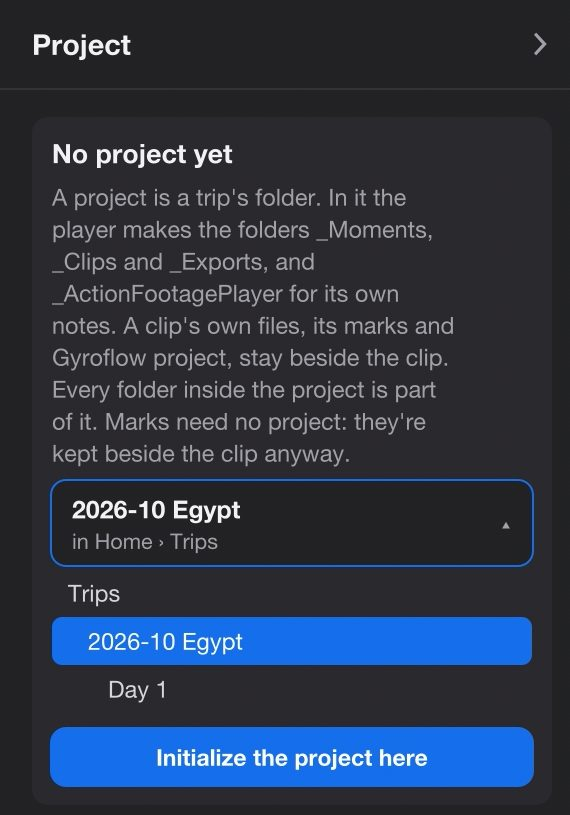
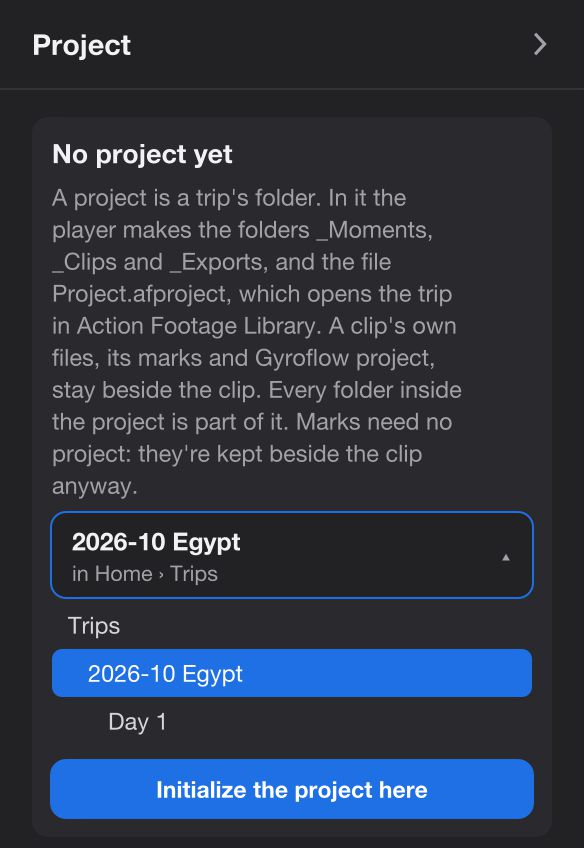
Panel screenshots retaken from 0.9 (Source, Transform, Output, the new rail), headless; image sizes matched in the translations

diff --git a/website/site/organizing.html b/website/site/organizing.html
@@ -190,9 +190,8 @@
         <p class="honest">Pick the trip's folder, above the day folders, so the whole trip is one project. Marks need no project at all.</p>
         <p class="note">The side panel shows and hides with <kbd>Tab</kbd>.</p>
       </div>
-      <!-- RETAKE after #136: the Project tab with no project, with the new tab rail (Project, Source, Transform, Output, Save frame…); the No project yet text naming Project.afproject; the folder list open on Trips, 2026-10 Egypt and Day 1, 2026-10 Egypt selected; Initialize the project here -->
       <figure class="media" id="shot-library-1">
-        <img src="media/library-1.jpg" alt="The side panel's Project tab with no project: No project yet, saying the project gets the folders _Moments, _Clips and _Exports and the file Project.afproject; the folder list open on Trips, 2026-10 Egypt and Day 1, 2026-10 Egypt selected, and Initialize the project here." width="570" height="815" loading="lazy">
+        <img src="media/library-1.jpg" alt="The side panel's Project tab with no project: No project yet, saying the project gets the folders _Moments, _Clips and _Exports and the file Project.afproject; the folder list open on Trips, 2026-10 Egypt and Day 1, 2026-10 Egypt selected, and Initialize the project here." width="584" height="848" loading="lazy">
         <figcaption>No project yet: pick the trip's folder, then Initialize the project here.</figcaption>
       </figure>
     </div>
@@ -248,7 +247,6 @@
         </div>
       </div>
       <div class="stack">
-        <!-- RETAKE after #136: the moment's name prompt over a paused wreck frame, with the side panel beside it showing the new tab rail (Project, Source, Transform, Output, Save frame…) -->
         <figure class="media" id="shot-library-3">
           <img src="media/library-3.jpg" alt="A paused wreck frame with the prompt Moment 0:24–0:34 name (Enter: Turtle 2) at the bottom, the side panel beside it." width="1600" height="900" loading="lazy">
           <figcaption>Enter alone keeps the suggested name.</figcaption>
@@ -258,9 +256,8 @@
           <p>A moment is made whole, from what plays when you press <kbd>k</kbd>: its stabilization, level, horizon, lens, color aberration correction and frame. If the clip has a Gyroflow project, the moment gets its own copy, trimmed to the part. A moment never changes by itself: changing the clip, or the clip's project, later doesn't reach it. How the clip is read (its log curve, its turn, the lens under water) stays the clip's, for all its moments.</p>
           <p>While a moment plays, the side panel's <strong>Transform</strong> tab says <strong>Transform defined in</strong> the moment. Change anything, and it's for viewing only, unless <strong>Auto save</strong> is on: "Changed for viewing. The dot marks what's saved". <strong>Save to the moment</strong> writes it, <strong>Revert to saved</strong> goes back. Switch <strong>Settings of its own</strong> off, and the moment plays as its clip is saved to play; its own settings and its Gyroflow copy go, the copy to the <span class="os-mac">Trash</span><span class="os-win">Recycle Bin</span>.</p>
         </div>
-        <!-- RETAKE after #136: the Transform tab while the moment Turtle plays after a change: Transform defined in the moment, Settings of its own on, "Changed for viewing. The dot marks what's saved", Save to the moment and Revert to saved -->
         <figure class="media" id="shot-library-4">
-          <img src="media/library-4.jpg" alt="The side panel's Transform tab while the moment Turtle plays after a change: Transform defined in the moment, Settings of its own on, Changed for viewing, Save to the moment and Revert to saved." width="584" height="1120" loading="lazy">
+          <img src="media/library-4.jpg" alt="The side panel's Transform tab while the moment Turtle plays after a change: Transform defined in the moment, Settings of its own on, Changed for viewing. The dot marks what's saved, Save to the moment and Revert to saved; the level changed to Strong, the dot on Medium." width="584" height="918" loading="lazy">
           <figcaption>Viewing is never saving: changes are for viewing until you press Save to the moment.</figcaption>
         </figure>
       </div>
@@ -524,9 +521,8 @@ Z:\2026-10 Egypt</pre>
           </table>
         </div>
       </div>
-      <!-- RETAKE after #136: the Project tab of 2026-10 Egypt with the new tab rail: 3 moments · 12 of 40 clip previews, Open in Action Footage Library with its caption (no Make clip previews, no Ignore subfolders), Show all clips / moments in Finder, the clip's marks and moments with one menu open, and Save as moment 0:28–0:32 -->
       <figure class="media lib-tall" id="shot-library-6">
-        <img src="media/library-6.jpg" alt="The side panel's Project tab: 2026-10 Egypt, 3 moments and 12 of 40 clip previews, Open in Action Footage Library with its caption, the clip's marks and moments with one menu open, and Save as moment 0:28–0:32." width="584" height="1560" loading="lazy">
+        <img src="media/library-6.jpg" alt="The side panel's Project tab: 2026-10 Egypt, 3 moments and 3 of 7 clip previews, Open in Action Footage Library with its caption, Show all clips in Finder and Show all moments in Finder, the clip's marks and moments with Turtle's menu open, and Save as moment 0:28–0:32." width="584" height="1594" loading="lazy">
         <figcaption>The Project tab of a trip with a few moments.</figcaption>
       </figure>
     </div>

diff --git a/website/site/stabilization.html b/website/site/stabilization.html
@@ -216,14 +216,12 @@
         <p>The video file itself is never written to: the project is always the <code>.gyroflow</code> file beside it.</p>
       </div>
       <div class="stack">
-        <!-- RETAKE after #136: Transform tab on a clip with a Gyroflow project: Stabilization On with "For viewing only, never saved…", Lens "As in the project", the card In the Gyroflow project (Smoothing its own, Horizon, Frame, Projection) and Edit in Gyroflow… -->
         <figure class="media" id="shot-stabilization-4">
-          <img src="media/stabilization-4.jpg" alt="The side panel's Transform tab on a clip with a Gyroflow project: Stabilization On, Lens As in the project, and the card In the Gyroflow project with its smoothing, horizon, frame and projection, and Edit in Gyroflow." width="584" height="1222" loading="lazy">
+          <img src="media/stabilization-4.jpg" alt="The side panel's Transform tab on a clip with a Gyroflow project: Stabilization On, Lens As in the project, and the card In the Gyroflow project with its smoothing, horizon, frame and projection, and Edit in Gyroflow." width="584" height="1450" loading="lazy">
           <figcaption>A clip with its own project: the smoothing, horizon, frame and projection are the project's, listed in the Transform tab.</figcaption>
         </figure>
-        <!-- RETAKE after #136: Transform tab on a clip without motion data: Stabilization greyed at Off, "No motion data in this clip: Gyroflow can find it in the picture (optical flow)" and the button Stabilize in Gyroflow… -->
         <figure class="media" id="shot-stabilization-5">
-          <img src="media/stabilization-5.jpg" alt="The side panel's Transform tab on a clip without motion data: Stabilization greyed at Off, No motion data in this clip: Gyroflow can find it in the picture (optical flow), and the button Stabilize in Gyroflow." width="584" height="356" loading="lazy">
+          <img src="media/stabilization-5.jpg" alt="The side panel's Transform tab on a clip without motion data: Stabilization greyed at Off, No motion data in this clip: Gyroflow can find it in the picture (optical flow), and the button Stabilize in Gyroflow." width="584" height="779" loading="lazy">
           <figcaption>No gyro data? One button opens the video in Gyroflow, to stabilize it from the picture.</figcaption>
         </figure>
       </div>
@@ -269,9 +267,8 @@
             <dd>Under water, the flat glass in front of the lens splits colors apart towards the frame's edges. This puts them back, wherever the lens is under water. On Osmo Action 6 dive clips, red's fringe at the edge goes from 3-7 px to about 1 px. It's part of the transform, saved with the rest. Playback only: exports keep the fringes. Greyed when Source › <b>Under water, flat port</b> is No.</dd>
           </div>
         </dl>
-        <!-- RETAKE after #136: Transform tab on a dive clip with the defaults: Transform defined in "this session" with Save, Revert to saved, Use as default, Auto save; Stabilization On, Level Medium, Horizon Free, Lens Corrected + Linear, Frame Own + As is, Water: Reduce color aberration on -->
         <figure class="media" id="shot-stabilization-2">
-          <img src="media/stabilization-2.jpg" alt="The side panel's Transform tab on a dive clip: Transform defined in this session, Stabilization On, Level Medium, Horizon Free, Lens Corrected and Linear, Frame Own and As is, Reduce color aberration on." width="584" height="1222" loading="lazy">
+          <img src="media/stabilization-2.jpg" alt="The side panel's Transform tab on a dive clip: Transform defined in this session, Stabilization On, Level Medium, Horizon Free, Lens Corrected and Linear, Frame Own and As is, Reduce color aberration on." width="584" height="2019" loading="lazy">
           <figcaption>A dive clip with the default settings, steadied from its gyro data.</figcaption>
         </figure>
       </div>
@@ -404,9 +401,8 @@
           <p>If more than a tenth of the frames are dropped for over 2 seconds, playback pauses and asks: “Stabilization can't keep up, frames are dropped. Play lighter:”. It offers what helps on that clip: 30 or 15 fps, a lighter edge fill, no edge fill, rendering at 1080p, skipping the color aberration correction on this screen, or playing on as it is, and “Don't ask again”. What you pick is kept.</p>
           <p>On an M1 Pro MacBook Pro, the stabilization keeps up with 4K at 60 fps with room to spare. On a thin 15 W Windows laptop, 4K at 60 fps with the trail kept up at 15 fps, not at 30.</p>
         </div>
-        <!-- RETAKE after #136: the slow-playback prompt, whose choice now reads "Skip the color aberration correction on this screen" (was "Color fringes under water left as recorded") -->
         <figure class="media" id="shot-stabilization-6">
-          <img src="media/stabilization-6.jpg" alt="A paused wreck frame with the list Stabilization can't keep up, frames are dropped. Play lighter, and its choices." width="1600" height="900" loading="lazy">
+          <img src="media/stabilization-6.jpg" alt="A paused wreck frame with the list Stabilization can't keep up, frames are dropped. Play lighter, and its choices, among them Skip the color aberration correction on this screen." width="1600" height="900" loading="lazy">
           <figcaption>The prompt when the computer can't keep up.</figcaption>
         </figure>
       </div>

diff --git a/website/site/log.html b/website/site/log.html
@@ -294,7 +294,6 @@
             <p>The Dolby Vision looks and exports need the Mac app's own mpv. On Windows and Linux, and with the plugins in your own mpv on a Mac, there are no +DV looks and no Dolby Vision exports.</p>
           </div>
         </div>
-        <!-- RETAKE after #136: Dolby Vision tab with the author's trims, as before; only the rail changed (Project, Source, Transform, Output, Save frame, …) -->
         <figure class="media lg-panel" id="shot-log-2">
           <img src="media/log-2.jpg" alt="The side panel's Dolby Vision tab: seven trim sliders from Slope to Chroma weight, with the buttons These are the author's trims and Neutral trims: none added." width="584" height="1716" loading="lazy">
           <figcaption>The Dolby Vision tab of the side panel, with the author's trims.</figcaption>
@@ -326,9 +325,8 @@
             <p>Progress shows at the top right. Paused, the export runs at full speed, about 35 frames a second for 4K at 60 fps on an M1 Pro Mac. While the video plays, it nearly stops, so playback stays smooth. <span class="os-mac">A notification says where the file went.</span><span class="os-win">A message over the video says where the file went.</span></p>
           </li>
         </ol>
-        <!-- RETAKE after #136: Output tab, Export part, with a part 1:05–1:30 marked: Mark start / Mark end with times, Clear the part, Export the part, Export in SDR, Show the last export, the caption A still or a Live Photo: Save frame; In the folder dock below -->
         <figure class="media lg-panel" id="shot-log-3">
-          <img src="media/log-3.jpg" alt="The Export part of the side panel's Output tab with the part 1:05–1:30 marked: Mark start, Mark end, Clear the part, Export the part, Export in SDR and Show the last export." width="584" height="1010" loading="lazy">
+          <img src="media/log-3.jpg" alt="The Export part of the side panel's Output tab with the part 1:05–1:30 marked: Start 1:05, End 1:30, Clear the part, Export the part 1:05–1:30, Export in SDR, Show the last export and the line A still or a Live Photo: Save frame; In the folder below." width="584" height="762" loading="lazy">
           <figcaption>Output › Export in the side panel, with a part marked.</figcaption>
         </figure>
       </div>
@@ -441,14 +439,12 @@
           </div>
         </dl>
         <div class="lg-shots">
-          <!-- RETAKE after #136: Output tab on an SDR screen, D-Log M clip: From Log, D-Log M, all seven looks with HDR, HLG+DV selected, its note, Dolby Vision trims…, the line D-Log M, from the clip … with Change in Source -->
           <figure class="media lg-panel" id="shot-log-4">
-            <img src="media/log-4.jpg" alt="The side panel's Output tab on an SDR screen: From Log, D-Log M, seven looks with HDR, HLG+DV selected, its note, the Dolby Vision trims button, the log curve line with Change in Source, and Export." width="584" height="1518" loading="lazy">
+            <img src="media/log-4.jpg" alt="The side panel's Output tab on an SDR screen: From Log, D-Log M, seven looks with HDR, HLG+DV selected, its note, the Dolby Vision trims button, and the log curve line D-Log M, from the clip, with Change in Source." width="584" height="1145" loading="lazy">
             <figcaption>On an ordinary screen: all seven looks of a D-Log M clip.</figcaption>
           </figure>
-          <!-- RETAKE after #136: Output tab on an HDR screen, GP-Log clip: From Log, GP-Log, HDR, HLG selected, no maker's LUT look and the line No maker's LUT for GP-Log yet -->
           <figure class="media lg-panel" id="shot-log-5">
-            <img src="media/log-5.jpg" alt="The side panel's Output tab on an HDR screen with the GP-Log curve: From Log, GP-Log, HDR, HLG selected, no camera maker's LUT, and the line No maker's LUT for GP-Log yet." width="584" height="1302" loading="lazy">
+            <img src="media/log-5.jpg" alt="The side panel's Output tab on an HDR screen with the GP-Log curve: From Log, GP-Log, HDR, HLG selected, no camera maker's LUT, the line No maker's LUT for GP-Log yet, and the log curve line with Change in Source." width="584" height="897" loading="lazy">
             <figcaption>On an HDR screen, with the GP-Log curve: no maker's look.</figcaption>
           </figure>
         </div>

diff --git a/website/site/photos.html b/website/site/photos.html
@@ -121,9 +121,8 @@
         </div>
       </div>
 
-      <!-- RETAKE after #136: the same reef frame in Save frame (4:5, thirds lines, label line), with the side panel on Save frame, its rail showing the new icons in order: Project, Source, Transform, Output, Save frame (fifth), Performance & Quality, Telemetry, Dolby Vision -->
       <figure class="media" id="shot-photos-1">
-        <img src="media/photos-1.jpg" alt="The player paused on a reef with a pufferfish in Save frame mode: a 4:5 frame with thirds lines, the surround dimmed, the label line above it, the side panel on Save frame, the fifth icon of its rail after Project, Source, Transform and Output." width="1600" height="900" loading="lazy">
+        <img src="media/photos-1.jpg" alt="The player paused on a reef in Save frame mode: a 4:5 frame with thirds lines, the surround dimmed, the label line above it, the side panel on Save frame, the fifth icon of its rail after Project, Source, Transform and Output." width="1600" height="900" loading="lazy">
         <figcaption>Save frame (<kbd>c</kbd>): the photo's frame over the paused video, with the side panel's Save frame part beside it.</figcaption>
       </figure>
     </div>
@@ -404,14 +403,12 @@
           <p class="note">In the settings file <code>gyroflow.conf</code>: <code>live_photo</code> is <code>yes</code> (Live Photo on a Mac, Motion Photo elsewhere), <code>live</code>, <code>motion</code> or <code>no</code> (stills). <code>still_radius</code>, <code>still_delay</code> and <code>still_grain</code> tune the clean frame on screen only: a saved photo always uses 5 frames on each side.</p>
         </div>
         <div class="stack">
-          <!-- RETAKE after #136: the side panel's Save frame part on a Mac (Frame the photo on, aspect 4:5, Zoom 120 %, Horizon 3.5°, Photo: Live Photo, Save the frame as a photo), with the rail's Save frame icon fifth, after Project, Source, Transform and Output -->
           <figure class="media" id="shot-photos-4">
-            <img src="media/photos-4.jpg" alt="The side panel's Save frame part, the fifth icon of its rail: Frame the photo on, aspect 4:5, Zoom 120 %, Horizon 3.5°, Photo set to Live Photo, and Save the frame as a photo." width="584" height="1600" loading="lazy">
+            <img src="media/photos-4.jpg" alt="The side panel's Save frame part, the fifth icon of its rail: Frame the photo on, aspect 4:5, Zoom 120 %, Horizon 3.5°, Photo set to Live Photo, and Save the frame as a photo." width="584" height="1594" loading="lazy">
             <figcaption>The Save frame part, on a Mac.</figcaption>
           </figure>
-          <!-- RETAKE after #136: Performance & Quality's Paused frame (As it played / Full size) and the Temporal denoise switch on, with their captions; these settings are unchanged, so retake only to match the new panel's look -->
           <figure class="media" id="shot-photos-5">
-            <img src="media/photos-5.jpg" alt="Performance &amp; Quality in the side panel: Paused frame, As it played or Full size, and the Temporal denoise switch on, with their captions." width="570" height="405" loading="lazy">
+            <img src="media/photos-5.jpg" alt="Performance &amp; Quality in the side panel: Paused frame, As it played or Full size, and the Temporal denoise switch on, with their captions." width="570" height="400" loading="lazy">
             <figcaption>Paused frame and Temporal denoise, in Performance &amp; Quality.</figcaption>
           </figure>
         </div>

diff --git a/website/site/ru/organizing.html b/website/site/ru/organizing.html
@@ -193,7 +193,7 @@
         <p class="note">Боковая панель показывается и скрывается клавишей <kbd>Tab</kbd>.</p>
       </div>
       <figure class="media" id="shot-library-1">
-        <img src="../media/library-1.jpg" alt="Вкладка Project боковой панели без проекта: список папок открыт на Trips, 2026-10 Egypt и Day 1, выбрана 2026-10 Egypt, и кнопка Initialize the project here." width="570" height="815" loading="lazy">
+        <img src="../media/library-1.jpg" alt="Вкладка Project боковой панели без проекта: список папок открыт на Trips, 2026-10 Egypt и Day 1, выбрана 2026-10 Egypt, и кнопка Initialize the project here." width="584" height="848" loading="lazy">
         <figcaption>Проекта пока нет: выберите папку поездки, затем Initialize the project here.</figcaption>
       </figure>
     </div>
@@ -258,7 +258,7 @@
           <p>Пока момент играет, боковая панель показывает <strong>Stabilized: As saved / On its own / With its clip</strong> (как сохранён / сам по себе / вместе с клипом). Всё, что вы меняете, — только для просмотра: панель пишет «Changed for viewing only: the moment is as it was saved» (изменено только для просмотра, момент остался как сохранён). <strong>Keep in Turtle</strong> записывает это в момент.</p>
         </div>
         <figure class="media" id="shot-library-4">
-          <img src="../media/library-4.jpg" alt="Боковая панель, пока после изменения играет момент Turtle: Open the whole clip at 0:24, Stabilized As saved, Changed for viewing only и Keep in Turtle." width="584" height="1120" loading="lazy">
+          <img src="../media/library-4.jpg" alt="Боковая панель, пока после изменения играет момент Turtle: Open the whole clip at 0:24, Stabilized As saved, Changed for viewing only и Keep in Turtle." width="584" height="918" loading="lazy">
           <figcaption>Просмотр — это не сохранение: Keep in Turtle — единственная кнопка, которая записывает.</figcaption>
         </figure>
       </div>
@@ -491,7 +491,7 @@ Z:\2026-10 Egypt</pre>
         </div>
       </div>
       <figure class="media lib-tall" id="shot-library-6">
-        <img src="../media/library-6.jpg" alt="Вкладка Project боковой панели: 2026-10 Egypt, 3 moments и 12 of 40 clip previews, метки и моменты клипа с одним открытым меню и Save as moment 0:28–0:32." width="584" height="1560" loading="lazy">
+        <img src="../media/library-6.jpg" alt="Вкладка Project боковой панели: 2026-10 Egypt, 3 moments и 12 of 40 clip previews, метки и моменты клипа с одним открытым меню и Save as moment 0:28–0:32." width="584" height="1594" loading="lazy">
         <figcaption>Вкладка Project у поездки с несколькими моментами.</figcaption>
       </figure>
     </div>

diff --git a/website/site/fr/organizing.html b/website/site/fr/organizing.html
@@ -193,7 +193,7 @@
         <p class="note">Le panneau latéral s’affiche et se masque avec <kbd>Tab</kbd>.</p>
       </div>
       <figure class="media" id="shot-library-1">
-        <img src="../media/library-1.jpg" alt="L’onglet Project du panneau latéral sans projet : la liste des dossiers ouverte sur Trips, 2026-10 Egypt et Day 1, 2026-10 Egypt sélectionné, et Initialize the project here." width="570" height="815" loading="lazy">
+        <img src="../media/library-1.jpg" alt="L’onglet Project du panneau latéral sans projet : la liste des dossiers ouverte sur Trips, 2026-10 Egypt et Day 1, 2026-10 Egypt sélectionné, et Initialize the project here." width="584" height="848" loading="lazy">
         <figcaption>No project yet : choisissez le dossier du voyage, puis Initialize the project here.</figcaption>
       </figure>
     </div>
@@ -258,7 +258,7 @@
           <p>Pendant la lecture d’un moment, le panneau latéral affiche <strong>Stabilized: As saved / On its own / With its clip</strong>. Changez quoi que ce soit, et ce n’est que pour regarder : le panneau indique « Changed for viewing only: the moment is as it was saved » (changé seulement pour regarder : le moment reste tel qu’enregistré). <strong>Keep in Turtle</strong> l’écrit dans le moment.</p>
         </div>
         <figure class="media" id="shot-library-4">
-          <img src="../media/library-4.jpg" alt="Le panneau latéral pendant la lecture du moment Turtle après un changement : Open the whole clip at 0:24, Stabilized As saved, Changed for viewing only, et Keep in Turtle." width="584" height="1120" loading="lazy">
+          <img src="../media/library-4.jpg" alt="Le panneau latéral pendant la lecture du moment Turtle après un changement : Open the whole clip at 0:24, Stabilized As saved, Changed for viewing only, et Keep in Turtle." width="584" height="918" loading="lazy">
           <figcaption>Regarder n’est jamais enregistrer : Keep in Turtle est le seul bouton qui écrit.</figcaption>
         </figure>
       </div>
@@ -491,7 +491,7 @@ Z:\2026-10 Egypt</pre>
         </div>
       </div>
       <figure class="media lib-tall" id="shot-library-6">
-        <img src="../media/library-6.jpg" alt="L’onglet Project du panneau latéral : 2026-10 Egypt, 3 moments et 12 of 40 clip previews, les repères et les moments du clip avec un menu ouvert, et Save as moment 0:28–0:32." width="584" height="1560" loading="lazy">
+        <img src="../media/library-6.jpg" alt="L’onglet Project du panneau latéral : 2026-10 Egypt, 3 moments et 12 of 40 clip previews, les repères et les moments du clip avec un menu ouvert, et Save as moment 0:28–0:32." width="584" height="1594" loading="lazy">
         <figcaption>L’onglet Project d’un voyage avec quelques moments.</figcaption>
       </figure>
     </div>

diff --git a/website/site/zh/organizing.html b/website/site/zh/organizing.html
@@ -193,7 +193,7 @@
         <p class="note">侧边面板用 <kbd>Tab</kbd> 显示和隐藏。</p>
       </div>
       <figure class="media" id="shot-library-1">
-        <img src="../media/library-1.jpg" alt="没有项目时侧边面板的 Project 标签页：文件夹列表展开，显示 Trips、2026-10 Egypt 和 Day 1，已选中 2026-10 Egypt，以及 Initialize the project here。" width="570" height="815" loading="lazy">
+        <img src="../media/library-1.jpg" alt="没有项目时侧边面板的 Project 标签页：文件夹列表展开，显示 Trips、2026-10 Egypt 和 Day 1，已选中 2026-10 Egypt，以及 Initialize the project here。" width="584" height="848" loading="lazy">
         <figcaption>No project yet：选择旅行文件夹，然后按 Initialize the project here。</figcaption>
       </figure>
     </div>
@@ -258,7 +258,7 @@
           <p>精彩瞬间播放时，侧边面板显示 <strong>Stabilized: As saved / On its own / With its clip</strong>。改动任何设置都只用于观看：面板会显示 “Changed for viewing only: the moment is as it was saved”（仅为观看而改动：精彩瞬间保持保存时的样子）。<strong>Keep in Turtle</strong> 才会把它写入精彩瞬间。</p>
         </div>
         <figure class="media" id="shot-library-4">
-          <img src="../media/library-4.jpg" alt="精彩瞬间 Turtle 在改动后播放时的侧边面板：Open the whole clip at 0:24，Stabilized As saved，Changed for viewing only，以及 Keep in Turtle。" width="584" height="1120" loading="lazy">
+          <img src="../media/library-4.jpg" alt="精彩瞬间 Turtle 在改动后播放时的侧边面板：Open the whole clip at 0:24，Stabilized As saved，Changed for viewing only，以及 Keep in Turtle。" width="584" height="918" loading="lazy">
           <figcaption>观看从不等于保存：Keep in Turtle 是唯一会写入的按钮。</figcaption>
         </figure>
       </div>
@@ -491,7 +491,7 @@ Z:\2026-10 Egypt</pre>
         </div>
       </div>
       <figure class="media lib-tall" id="shot-library-6">
-        <img src="../media/library-6.jpg" alt="侧边面板的 Project 标签页：2026-10 Egypt，3 moments 和 12 of 40 clip previews，片段的标记和精彩瞬间（其中一个菜单已展开），以及 Save as moment 0:28–0:32。" width="584" height="1560" loading="lazy">
+        <img src="../media/library-6.jpg" alt="侧边面板的 Project 标签页：2026-10 Egypt，3 moments 和 12 of 40 clip previews，片段的标记和精彩瞬间（其中一个菜单已展开），以及 Save as moment 0:28–0:32。" width="584" height="1594" loading="lazy">
         <figcaption>一次有几个精彩瞬间的旅行的 Project 标签页。</figcaption>
       </figure>
     </div>

diff --git a/website/site/ru/stabilization.html b/website/site/ru/stabilization.html
@@ -220,11 +220,11 @@
       </div>
       <div class="stack">
         <figure class="media" id="shot-stabilization-4">
-          <img src="../media/stabilization-4.jpg" alt="Раздел Stabilization боковой панели на клипе с проектом Gyroflow: Level неактивен, Horizon и Lens в положении As project." width="584" height="1222" loading="lazy">
+          <img src="../media/stabilization-4.jpg" alt="Раздел Stabilization боковой панели на клипе с проектом Gyroflow: Level неактивен, Horizon и Lens в положении As project." width="584" height="1450" loading="lazy">
           <figcaption>Клип с собственным проектом: Level берётся из проекта, поэтому он неактивен.</figcaption>
         </figure>
         <figure class="media" id="shot-stabilization-5">
-          <img src="../media/stabilization-5.jpg" alt="Раздел Stabilization боковой панели на клипе без данных движения: No motion data in this clip и кнопка Stabilize in Gyroflow." width="584" height="356" loading="lazy">
+          <img src="../media/stabilization-5.jpg" alt="Раздел Stabilization боковой панели на клипе без данных движения: No motion data in this clip и кнопка Stabilize in Gyroflow." width="584" height="779" loading="lazy">
           <figcaption>Нет данных гироскопа? Одна кнопка открывает видео в Gyroflow, чтобы стабилизировать его по изображению.</figcaption>
         </figure>
       </div>
@@ -271,7 +271,7 @@
           </div>
         </dl>
         <figure class="media" id="shot-stabilization-2">
-          <img src="../media/stabilization-2.jpg" alt="Раздел Stabilization боковой панели на клипе с погружения: The camera's gyro data, View On, Level Medium, Horizon As preset, Lens Auto, Reduce color aberration включено." width="584" height="1222" loading="lazy">
+          <img src="../media/stabilization-2.jpg" alt="Раздел Stabilization боковой панели на клипе с погружения: The camera's gyro data, View On, Level Medium, Horizon As preset, Lens Auto, Reduce color aberration включено." width="584" height="2019" loading="lazy">
           <figcaption>Клип с погружения с настройками по умолчанию, выровненный по данным гироскопа.</figcaption>
         </figure>
       </div>

diff --git a/website/site/ru/log.html b/website/site/ru/log.html
@@ -322,7 +322,7 @@
           </li>
         </ol>
         <figure class="media lg-panel" id="shot-log-3">
-          <img src="../media/log-3.jpg" alt="Раздел Clip боковой панели с отмеченным фрагментом 1:05–1:30: Export the part, Export in SDR и Show the last export." width="584" height="1010" loading="lazy">
+          <img src="../media/log-3.jpg" alt="Раздел Clip боковой панели с отмеченным фрагментом 1:05–1:30: Export the part, Export in SDR и Show the last export." width="584" height="762" loading="lazy">
           <figcaption>Раздел Clip боковой панели с отмеченным фрагментом.</figcaption>
         </figure>
       </div>
@@ -431,11 +431,11 @@
         </dl>
         <div class="lg-shots">
           <figure class="media lg-panel" id="shot-log-4">
-            <img src="../media/log-4.jpg" alt="Раздел Look боковой панели на SDR-экране: семь стилей, выбран HDR, HLG+DV, его пояснение, кнопка трим-настроек Dolby Vision, кривая log и шумоподавление." width="584" height="1518" loading="lazy">
+            <img src="../media/log-4.jpg" alt="Раздел Look боковой панели на SDR-экране: семь стилей, выбран HDR, HLG+DV, его пояснение, кнопка трим-настроек Dolby Vision, кривая log и шумоподавление." width="584" height="1145" loading="lazy">
             <figcaption>На обычном экране: все семь стилей клипа в D-Log M.</figcaption>
           </figure>
           <figure class="media lg-panel" id="shot-log-5">
-            <img src="../media/log-5.jpg" alt="Раздел Look боковой панели на HDR-экране с кривой GP-Log: выбран HDR, HLG, LUT производителя камеры нет, и строка No maker's LUT for GP-Log yet." width="584" height="1302" loading="lazy">
+            <img src="../media/log-5.jpg" alt="Раздел Look боковой панели на HDR-экране с кривой GP-Log: выбран HDR, HLG, LUT производителя камеры нет, и строка No maker's LUT for GP-Log yet." width="584" height="897" loading="lazy">
             <figcaption>На HDR-экране, с кривой GP-Log: стиля производителя нет.</figcaption>
           </figure>
         </div>

diff --git a/website/site/fr/stabilization.html b/website/site/fr/stabilization.html
@@ -220,11 +220,11 @@
       </div>
       <div class="stack">
         <figure class="media" id="shot-stabilization-4">
-          <img src="../media/stabilization-4.jpg" alt="La partie Stabilization du panneau latéral sur un clip avec un projet Gyroflow : Level grisé, Horizon et Lens sur As project." width="584" height="1222" loading="lazy">
+          <img src="../media/stabilization-4.jpg" alt="La partie Stabilization du panneau latéral sur un clip avec un projet Gyroflow : Level grisé, Horizon et Lens sur As project." width="584" height="1450" loading="lazy">
           <figcaption>Un clip avec son propre projet : le Level est celui du projet, il est donc grisé.</figcaption>
         </figure>
         <figure class="media" id="shot-stabilization-5">
-          <img src="../media/stabilization-5.jpg" alt="La partie Stabilization du panneau latéral sur un clip sans données de mouvement : No motion data in this clip, et le bouton Stabilize in Gyroflow." width="584" height="356" loading="lazy">
+          <img src="../media/stabilization-5.jpg" alt="La partie Stabilization du panneau latéral sur un clip sans données de mouvement : No motion data in this clip, et le bouton Stabilize in Gyroflow." width="584" height="779" loading="lazy">
           <figcaption>Pas de données gyro ? Un bouton ouvre la vidéo dans Gyroflow, pour la stabiliser à partir de l’image.</figcaption>
         </figure>
       </div>
@@ -271,7 +271,7 @@
           </div>
         </dl>
         <figure class="media" id="shot-stabilization-2">
-          <img src="../media/stabilization-2.jpg" alt="La partie Stabilization du panneau latéral sur un clip de plongée : The camera's gyro data, View On, Level Medium, Horizon As preset, Lens Auto, Reduce color aberration activé." width="584" height="1222" loading="lazy">
+          <img src="../media/stabilization-2.jpg" alt="La partie Stabilization du panneau latéral sur un clip de plongée : The camera's gyro data, View On, Level Medium, Horizon As preset, Lens Auto, Reduce color aberration activé." width="584" height="2019" loading="lazy">
           <figcaption>Un clip de plongée avec les réglages par défaut, stabilisé à partir de ses données gyro.</figcaption>
         </figure>
       </div>

diff --git a/website/site/fr/log.html b/website/site/fr/log.html
@@ -322,7 +322,7 @@
           </li>
         </ol>
         <figure class="media lg-panel" id="shot-log-3">
-          <img src="../media/log-3.jpg" alt="La partie Clip du panneau latéral avec le passage 1:05–1:30 marqué : Export the part, Export in SDR et Show the last export." width="584" height="1010" loading="lazy">
+          <img src="../media/log-3.jpg" alt="La partie Clip du panneau latéral avec le passage 1:05–1:30 marqué : Export the part, Export in SDR et Show the last export." width="584" height="762" loading="lazy">
           <figcaption>La partie Clip du panneau latéral, avec un passage marqué.</figcaption>
         </figure>
       </div>
@@ -431,11 +431,11 @@
         </dl>
         <div class="lg-shots">
           <figure class="media lg-panel" id="shot-log-4">
-            <img src="../media/log-4.jpg" alt="La partie Look du panneau latéral sur un écran SDR : sept rendus avec HDR, HLG+DV sélectionné, sa note, le bouton des trims Dolby Vision, la courbe log et la réduction du bruit." width="584" height="1518" loading="lazy">
+            <img src="../media/log-4.jpg" alt="La partie Look du panneau latéral sur un écran SDR : sept rendus avec HDR, HLG+DV sélectionné, sa note, le bouton des trims Dolby Vision, la courbe log et la réduction du bruit." width="584" height="1145" loading="lazy">
             <figcaption>Sur un écran ordinaire : les sept rendus d’un clip D-Log M.</figcaption>
           </figure>
           <figure class="media lg-panel" id="shot-log-5">
-            <img src="../media/log-5.jpg" alt="La partie Look du panneau latéral sur un écran HDR avec la courbe GP-Log : HDR, HLG sélectionné, pas de LUT du fabricant de la caméra, et la ligne No maker's LUT for GP-Log yet." width="584" height="1302" loading="lazy">
+            <img src="../media/log-5.jpg" alt="La partie Look du panneau latéral sur un écran HDR avec la courbe GP-Log : HDR, HLG sélectionné, pas de LUT du fabricant de la caméra, et la ligne No maker's LUT for GP-Log yet." width="584" height="897" loading="lazy">
             <figcaption>Sur un écran HDR, avec la courbe GP-Log : pas de rendu du fabricant.</figcaption>
           </figure>
         </div>

diff --git a/website/site/zh/stabilization.html b/website/site/zh/stabilization.html
@@ -220,11 +220,11 @@
       </div>
       <div class="stack">
         <figure class="media" id="shot-stabilization-4">
-          <img src="../media/stabilization-4.jpg" alt="有 Gyroflow 项目的片段上，侧边面板的 Stabilization 部分：Level 呈灰色，Horizon 和 Lens 为 As project。" width="584" height="1222" loading="lazy">
+          <img src="../media/stabilization-4.jpg" alt="有 Gyroflow 项目的片段上，侧边面板的 Stabilization 部分：Level 呈灰色，Horizon 和 Lens 为 As project。" width="584" height="1450" loading="lazy">
           <figcaption>有自己项目的片段：Level 用的是项目的设定，所以呈灰色。</figcaption>
         </figure>
         <figure class="media" id="shot-stabilization-5">
-          <img src="../media/stabilization-5.jpg" alt="没有运动数据的片段上，侧边面板的 Stabilization 部分：No motion data in this clip，以及 Stabilize in Gyroflow 按钮。" width="584" height="356" loading="lazy">
+          <img src="../media/stabilization-5.jpg" alt="没有运动数据的片段上，侧边面板的 Stabilization 部分：No motion data in this clip，以及 Stabilize in Gyroflow 按钮。" width="584" height="779" loading="lazy">
           <figcaption>没有陀螺仪数据？一个按钮就能在 Gyroflow 中打开视频，从画面进行防抖。</figcaption>
         </figure>
       </div>
@@ -271,7 +271,7 @@
           </div>
         </dl>
         <figure class="media" id="shot-stabilization-2">
-          <img src="../media/stabilization-2.jpg" alt="潜水片段上，侧边面板的 Stabilization 部分：The camera's gyro data，View On，Level Medium，Horizon As preset，Lens Auto，Reduce color aberration 开启。" width="584" height="1222" loading="lazy">
+          <img src="../media/stabilization-2.jpg" alt="潜水片段上，侧边面板的 Stabilization 部分：The camera's gyro data，View On，Level Medium，Horizon As preset，Lens Auto，Reduce color aberration 开启。" width="584" height="2019" loading="lazy">
           <figcaption>默认设置下的潜水片段，依据它的陀螺仪数据防抖。</figcaption>
         </figure>
       </div>
